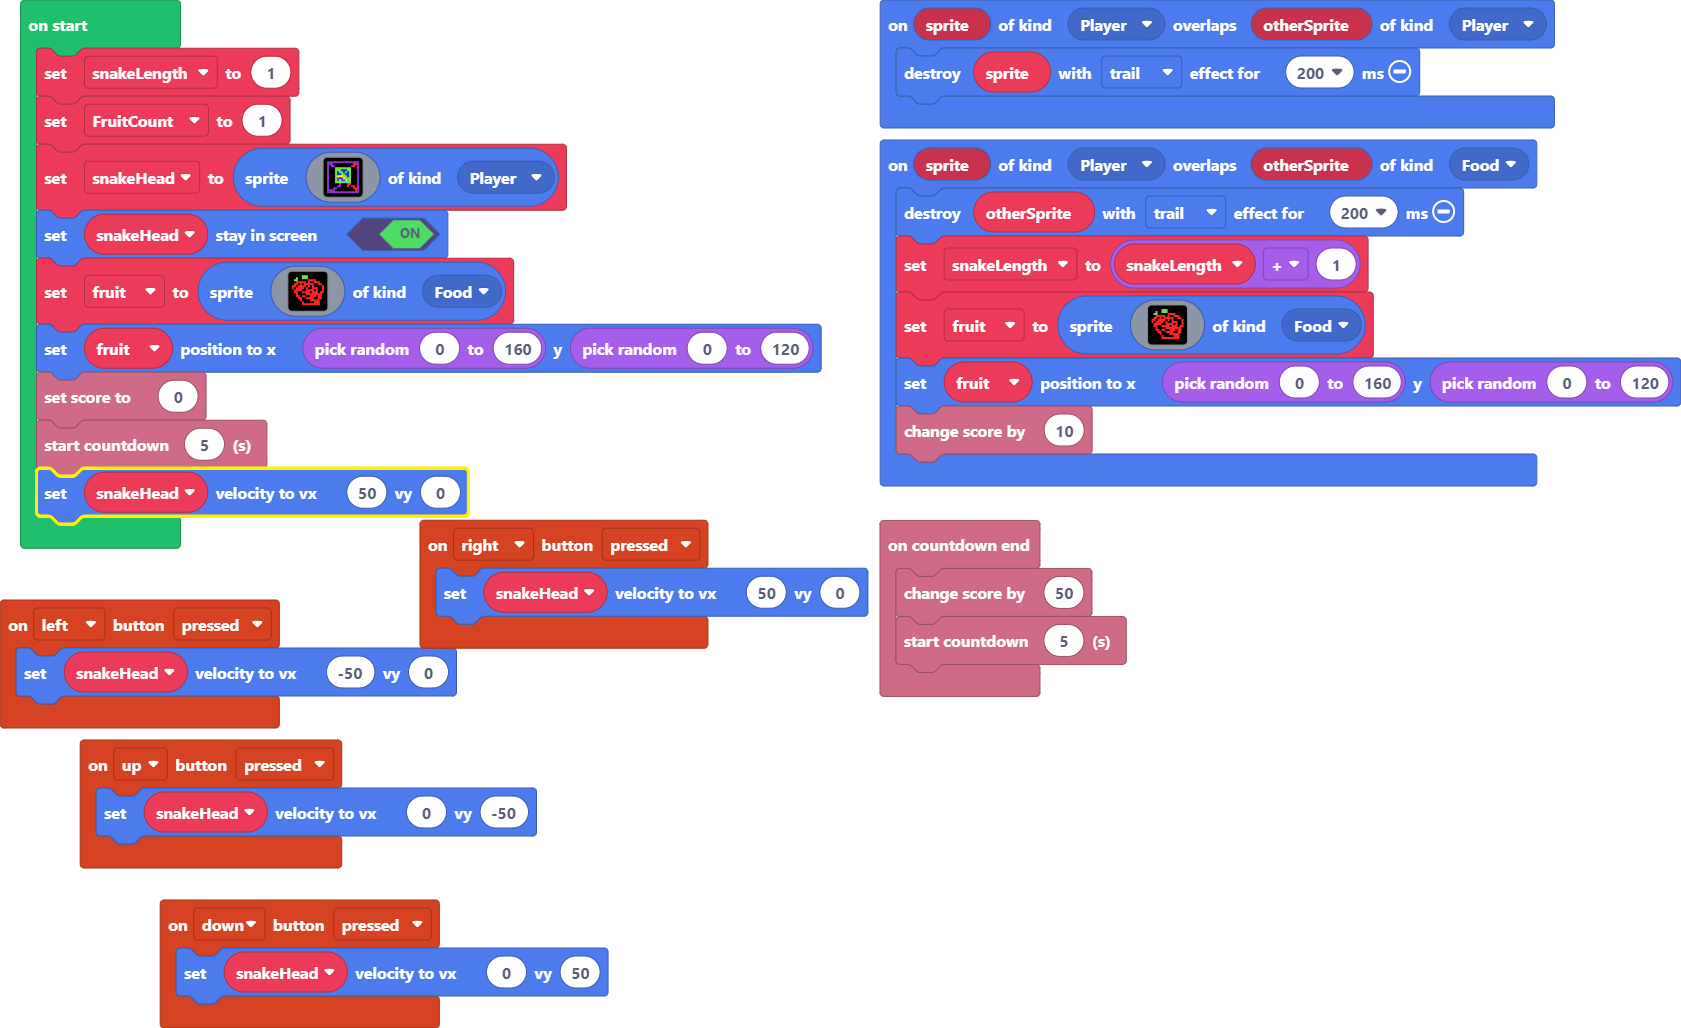
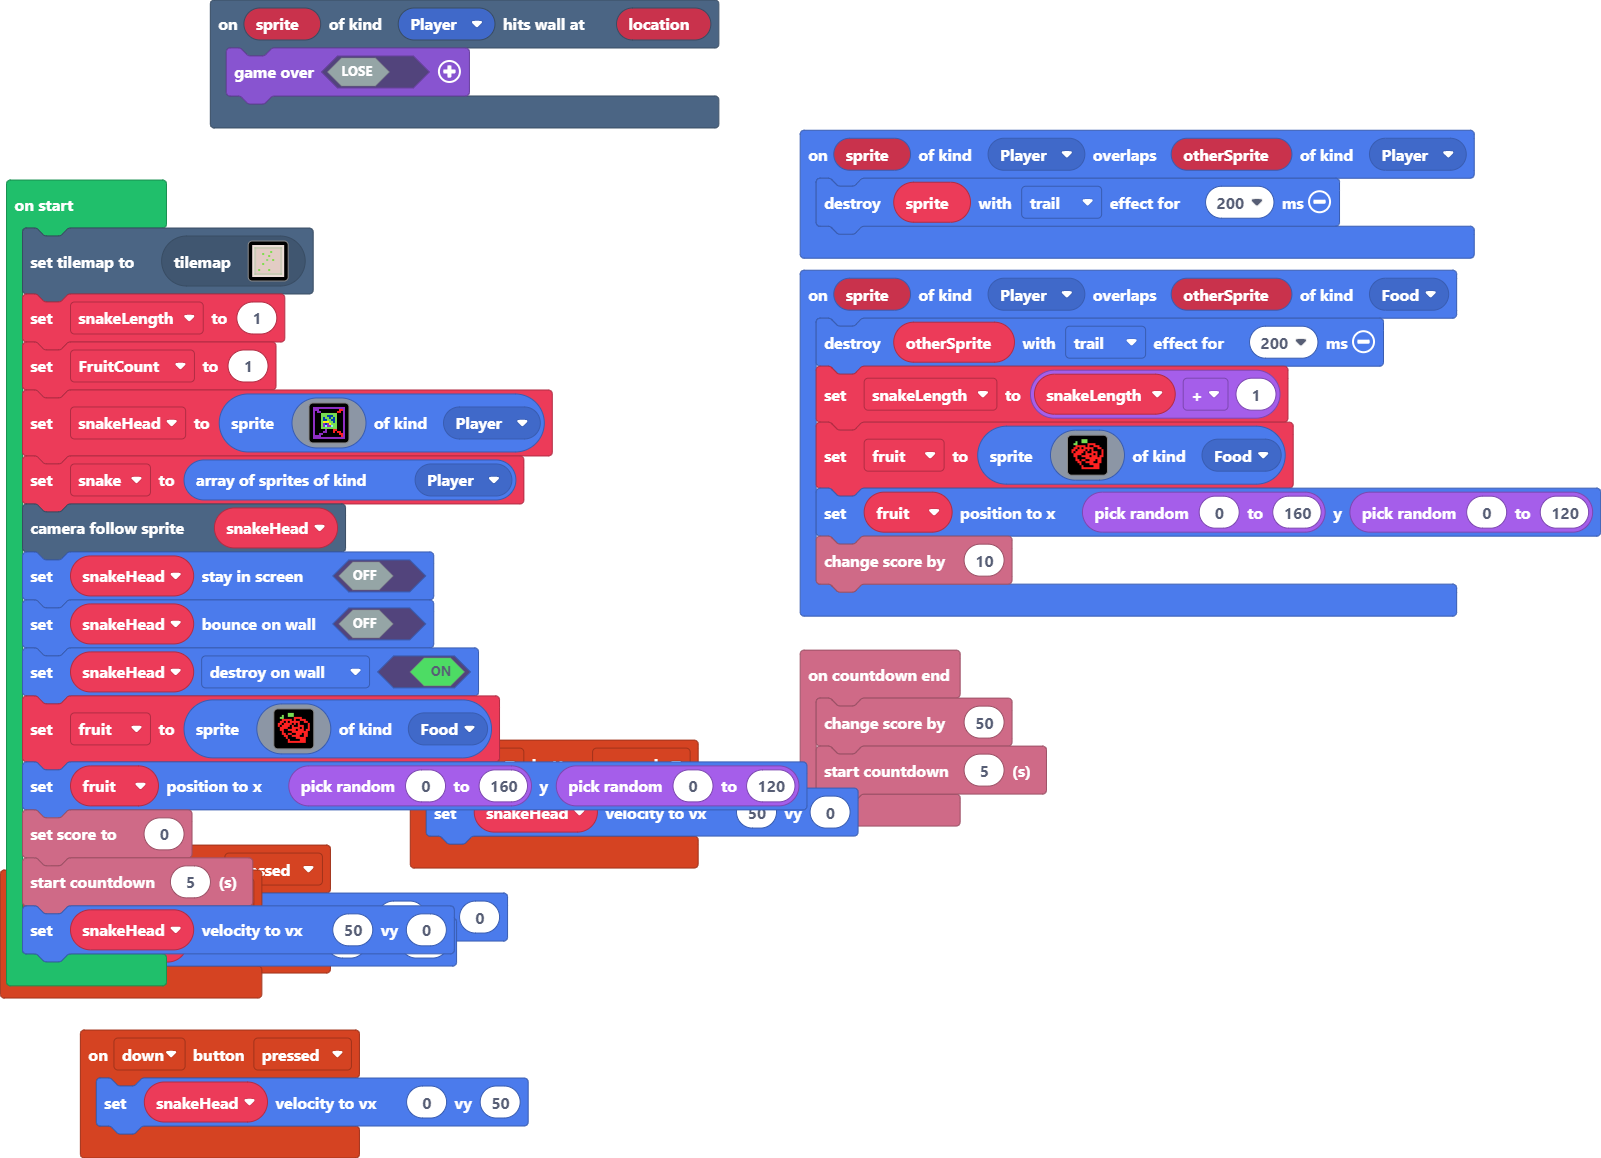
add end state

diff --git a/tilemap.g.ts b/tilemap.g.ts
@@ -1,0 +1,39 @@
+// Auto-generated code. Do not edit.
+namespace myTiles {
+    //% fixedInstance jres blockIdentity=images._tile
+    export const transparency16 = image.ofBuffer(hex``);
+
+    helpers._registerFactory("tilemap", function(name: string) {
+        switch(helpers.stringTrim(name)) {
+            case "level1":
[1 lines of base64/hex data omitted]
+2 2 2 2 2 2 2 2 2 2 2 2 2 2 2 2 
+2 . . . . . . . . . . . . . . 2 
+2 . . . . . . . . . . . . . . 2 
+2 . . . . . . . . . . . . . . 2 
+2 . . . . . . . . . . . . . . 2 
+2 . . . . . . . . . . . . . . 2 
+2 . . . . . . . . . . . . . . 2 
+2 . . . . . . . . . . . . . . 2 
+2 . . . . . . . . . . . . . . 2 
+2 . . . . . . . . . . . . . . 2 
+2 . . . . . . . . . . . . . . 2 
+2 . . . . . . . . . . . . . . 2 
+2 . . . . . . . . . . . . . . 2 
+2 . . . . . . . . . . . . . . 2 
+2 . . . . . . . . . . . . . . 2 
+2 2 2 2 2 2 2 2 2 2 2 2 2 2 2 2 
+`, [myTiles.transparency16,sprites.castle.tileGrass2,sprites.builtin.brick,sprites.castle.tileGrass1,sprites.castle.tilePath1,sprites.castle.tilePath4,sprites.castle.tilePath7,sprites.castle.tilePath8,sprites.castle.tilePath9,sprites.castle.tilePath6,sprites.castle.tilePath3,sprites.castle.tilePath2,sprites.castle.tileGrass3,sprites.castle.tilePath5], TileScale.Sixteen);
+        }
+        return null;
+    })
+
+    helpers._registerFactory("tile", function(name: string) {
+        switch(helpers.stringTrim(name)) {
+            case "transparency16":return transparency16;
+        }
+        return null;
+    })
+
+}
+// Auto-generated code. Do not edit.

diff --git a/main.ts b/main.ts
@@ -1,3 +1,6 @@
+scene.onHitWall(SpriteKind.Player, function (sprite, location) {
+    game.over(false)
+})
 controller.up.onEvent(ControllerButtonEvent.Pressed, function () {
     snakeHead.setVelocity(0, -50)
 })
@@ -44,6 +47,7 @@ sprites.onOverlap(SpriteKind.Player, SpriteKind.Food, function (sprite, otherSpr
 let fruit: Sprite = null
 let snakeHead: Sprite = null
 let snakeLength = 0
+tiles.setCurrentTilemap(tilemap`level1`)
 snakeLength = 1
 let FruitCount = 1
 snakeHead = sprites.create(img`
@@ -64,7 +68,11 @@ snakeHead = sprites.create(img`
     a a a a . . . . . . . . . . 2 a 
     a a a a a a a a a a a a a a a a 
     `, SpriteKind.Player)
-snakeHead.setStayInScreen(true)
+let snake = sprites.allOfKind(SpriteKind.Player)
+scene.cameraFollowSprite(snakeHead)
+snakeHead.setStayInScreen(false)
+snakeHead.setBounceOnWall(false)
+snakeHead.setFlag(SpriteFlag.DestroyOnWall, true)
 fruit = sprites.create(img`
     . . f f . 7 7 7 . . . . . . . . 
     . . 7 f f 7 7 7 . . . . . . . . 
